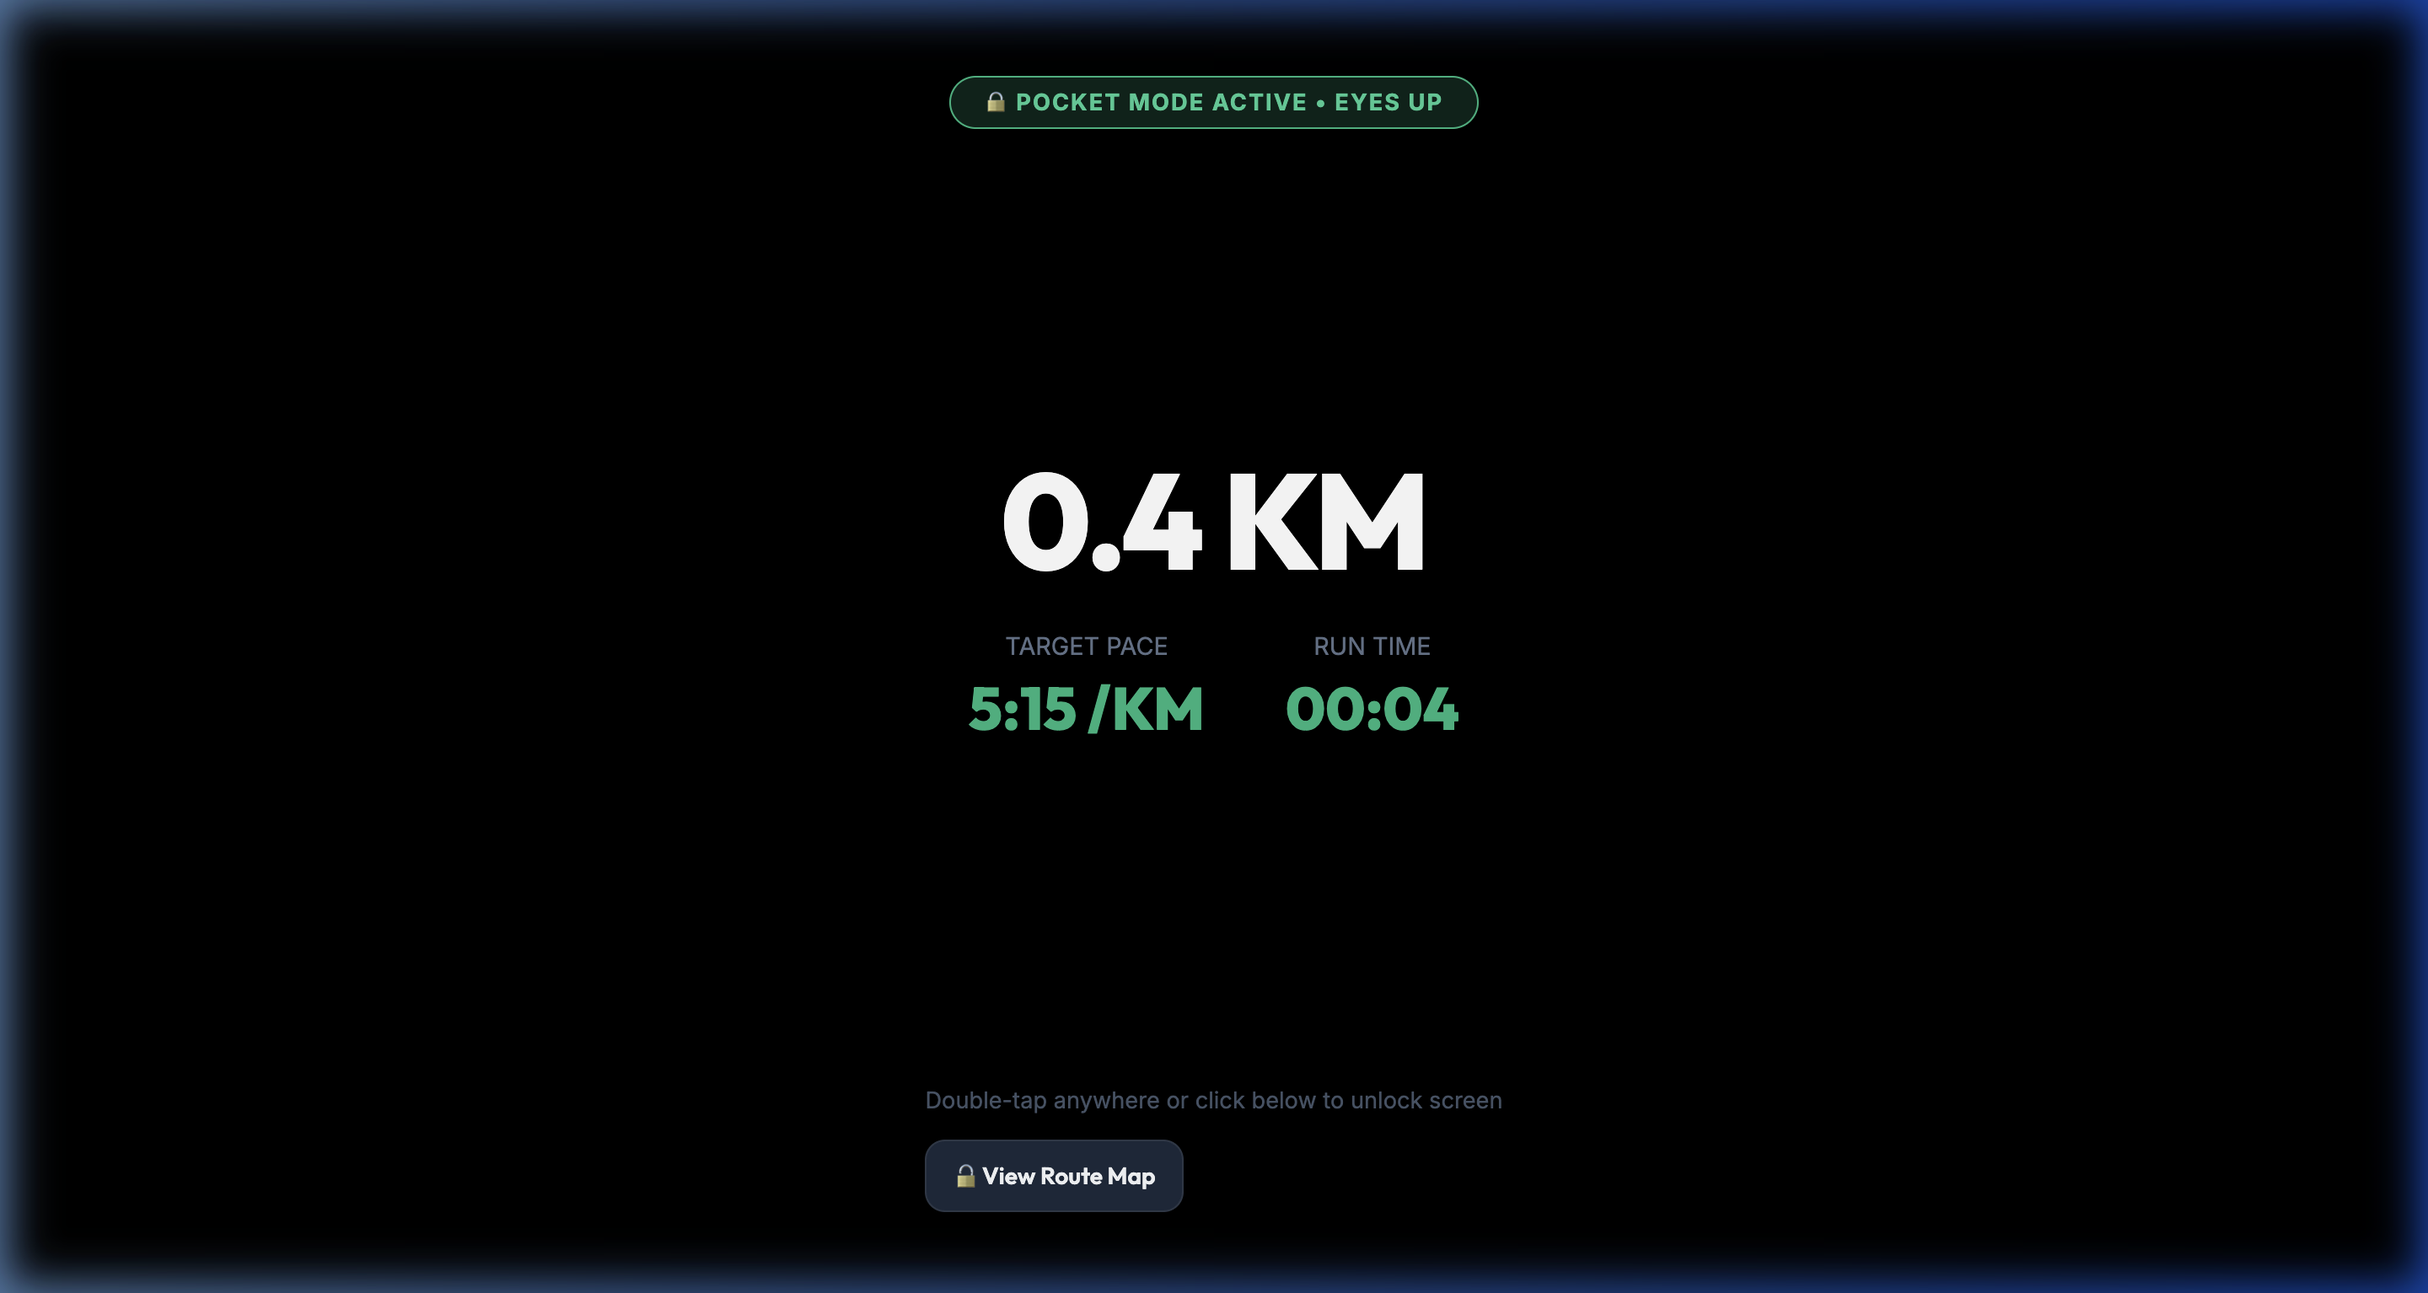
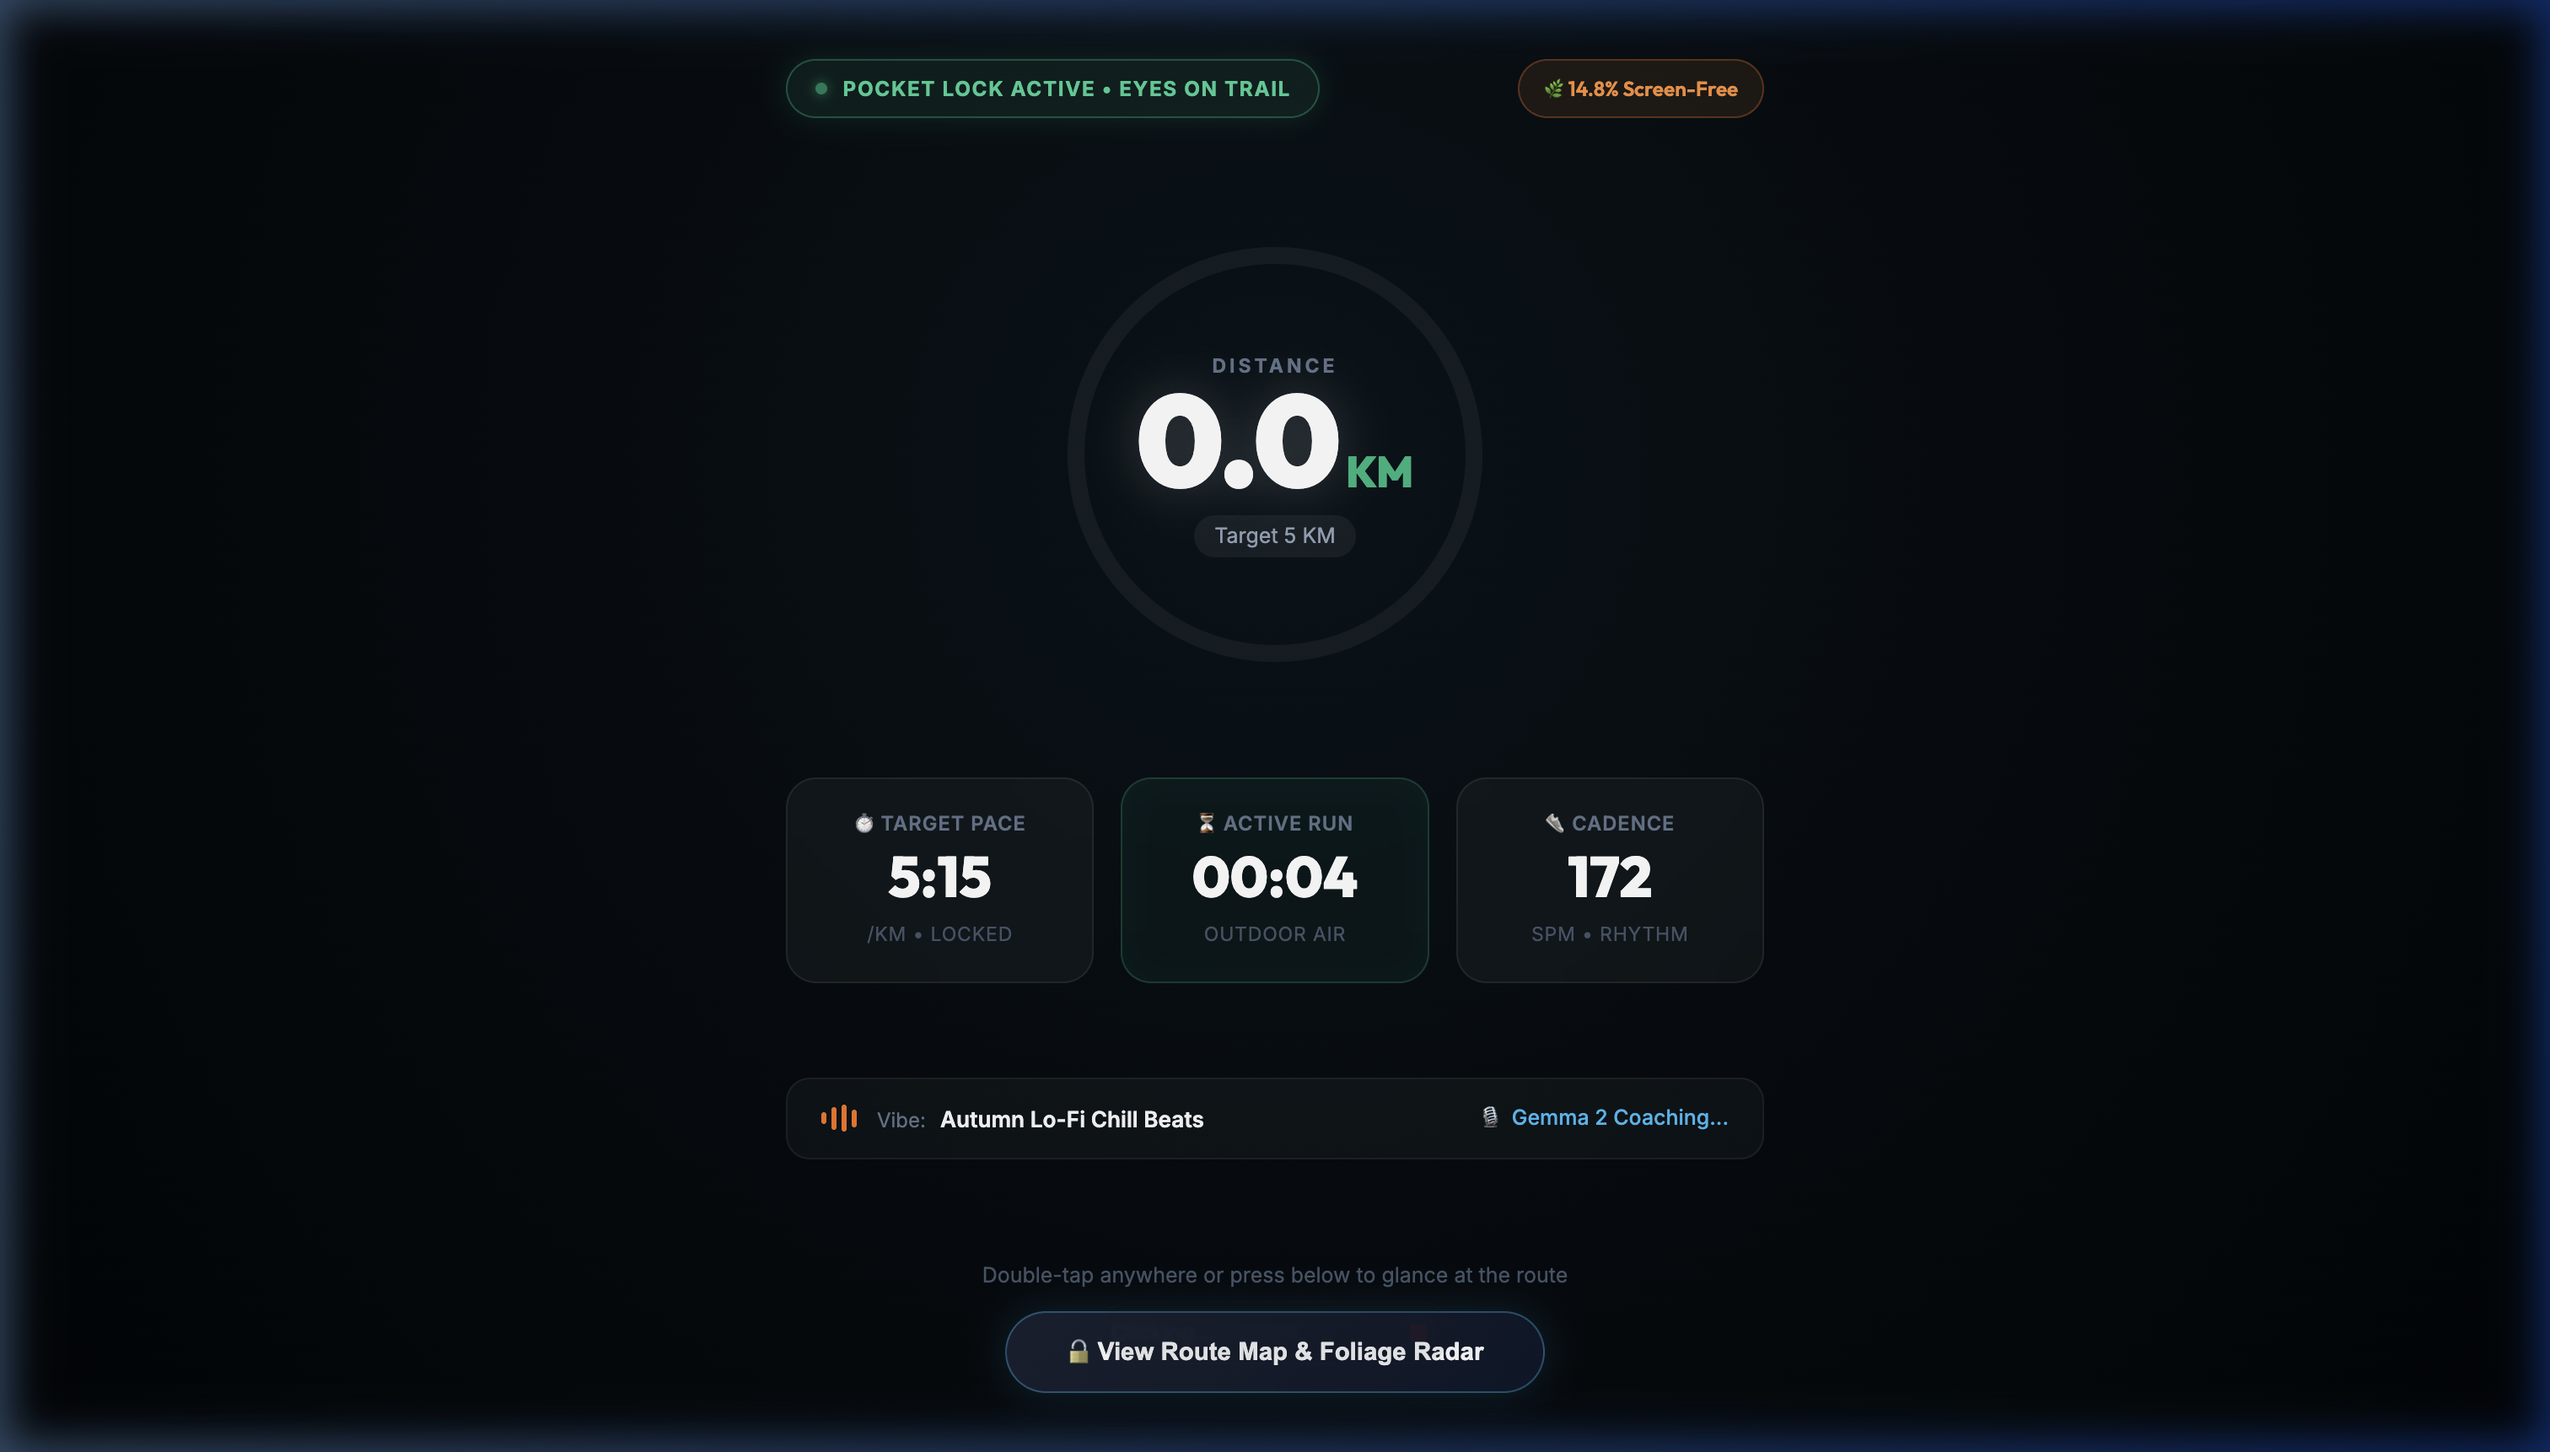
docs: Finalize documentation, visual assets, and GitHub Pages deployment

diff --git a/docs/DEV_SUBMISSION.md b/docs/DEV_SUBMISSION.md
@@ -31,12 +31,12 @@ And if you want to preview the run before stepping out, switch to the **3D Autum
 ### 🎥 Interactive Walkthrough & Audio Engine Demo
 ![PaceCast Demo Walkthrough](https://raw.githubusercontent.com/ish1416/PaceCast/main/docs/assets/pacecast_demo.gif)
 
+* **🌐 Live Deployed Web App**: [https://ish1416.github.io/PaceCast/](https://ish1416.github.io/PaceCast/)
+* **📦 GitHub Repository**: [https://github.com/ish1416/PaceCast](https://github.com/ish1416/PaceCast)
+
 - **Adaptive Running Soundtracks & Audio Ducking**: Real-time generative music (Autumn Lo-Fi Beats, Synthwave Horizon Run, Zen Forest Ambient) with automatic volume ducking when Gemma 2 speaks.
 - **Dynamic 2D / 3D Engine Switching**: Seamless toggle between open civic geospatial radar and 60FPS perspective canopy.
-- **OLED Pocket Mode**: Instant black-screen lock mode preventing accidental touches and battery drain.
-
-* **GitHub Repository**: [https://github.com/ish1416/PaceCast](https://github.com/ish1416/PaceCast)
-* **Live App Preview**: Clone and run `python3 -m http.server 3000` or `npx serve` to launch locally in seconds.
+- **High-Tech AMOLED Pocket HUD**: High-contrast OLED battery saver display with live SVG progress ring, cadence telemetry pods, companion equalizer strip, and double-tap unlock.
 
 ### 🌲 3D Autumn Trail Simulator (60FPS Leaves & Live Cadence Waveform)
 ![3D Trail View](https://raw.githubusercontent.com/ish1416/PaceCast/main/docs/assets/pacecast_3d_view.png)
@@ -44,7 +44,7 @@ And if you want to preview the run before stepping out, switch to the **3D Autum
 ### 🍁 2D Foliage Color Radar & Route Engine (OpenStreetMap)
 ![Foliage Radar Map](https://raw.githubusercontent.com/ish1416/PaceCast/main/docs/assets/pacecast_2d_map_glowing.png)
 
-### 🔒 Zero-Screen OLED Pocket Mode (< 1% Screen Time)
+### 🔒 High-Contrast AMOLED Pocket HUD (< 1% Screen Time)
 ![Pocket Mode](https://raw.githubusercontent.com/ish1416/PaceCast/main/docs/assets/app_pocket_mode.png)
 
 ### 🍂 Real-World Outdoor Field Test (Airplane Mode on Park Trail)

diff --git a/README.md b/README.md
@@ -5,6 +5,7 @@
 > Built for the **Hacktoberfest 2026 Open-Source AI Challenge: Week 1 ("Touch Grass")**.
 
 [![Hacktoberfest 2026](https://img.shields.io/badge/Hacktoberfest-2026_Touch_Grass-ff5722.svg)](https://dev.to/challenges/hacktoberfest-week1-2026-10-05)
+[![Live Web App](https://img.shields.io/badge/Live_App-ish1416.github.io%2FPaceCast-8a2be2.svg)](https://ish1416.github.io/PaceCast/)
 [![License: MIT](https://img.shields.io/badge/License-MIT-emerald.svg)](LICENSE)
 [![Model: Gemma 2 2B](https://img.shields.io/badge/Model-Google_Gemma_2_2B-blue.svg)](https://ai.google.dev/gemma)
 [![Setup: Zero Config](https://img.shields.io/badge/Setup-Zero_API_Keys_Required-brightgreen.svg)](#)
@@ -26,9 +27,12 @@ Commercial running apps like Strava, Nike Run Club, and smartwatch dashboards co
 
 ---
 
-## 🎬 Live 3D Walkthrough & Experience Demo
+## 🎬 Live Walkthrough & Experience Demo
 
-![PaceCast Live 3D Demo Walkthrough](docs/assets/pacecast_demo.gif)
+* **🌐 Live Web App**: [https://ish1416.github.io/PaceCast/](https://ish1416.github.io/PaceCast/)
+* **📦 GitHub Repository**: [https://github.com/ish1416/PaceCast](https://github.com/ish1416/PaceCast)
+
+![PaceCast Live Demo Walkthrough](docs/assets/pacecast_demo.gif)
 
 ---
 
